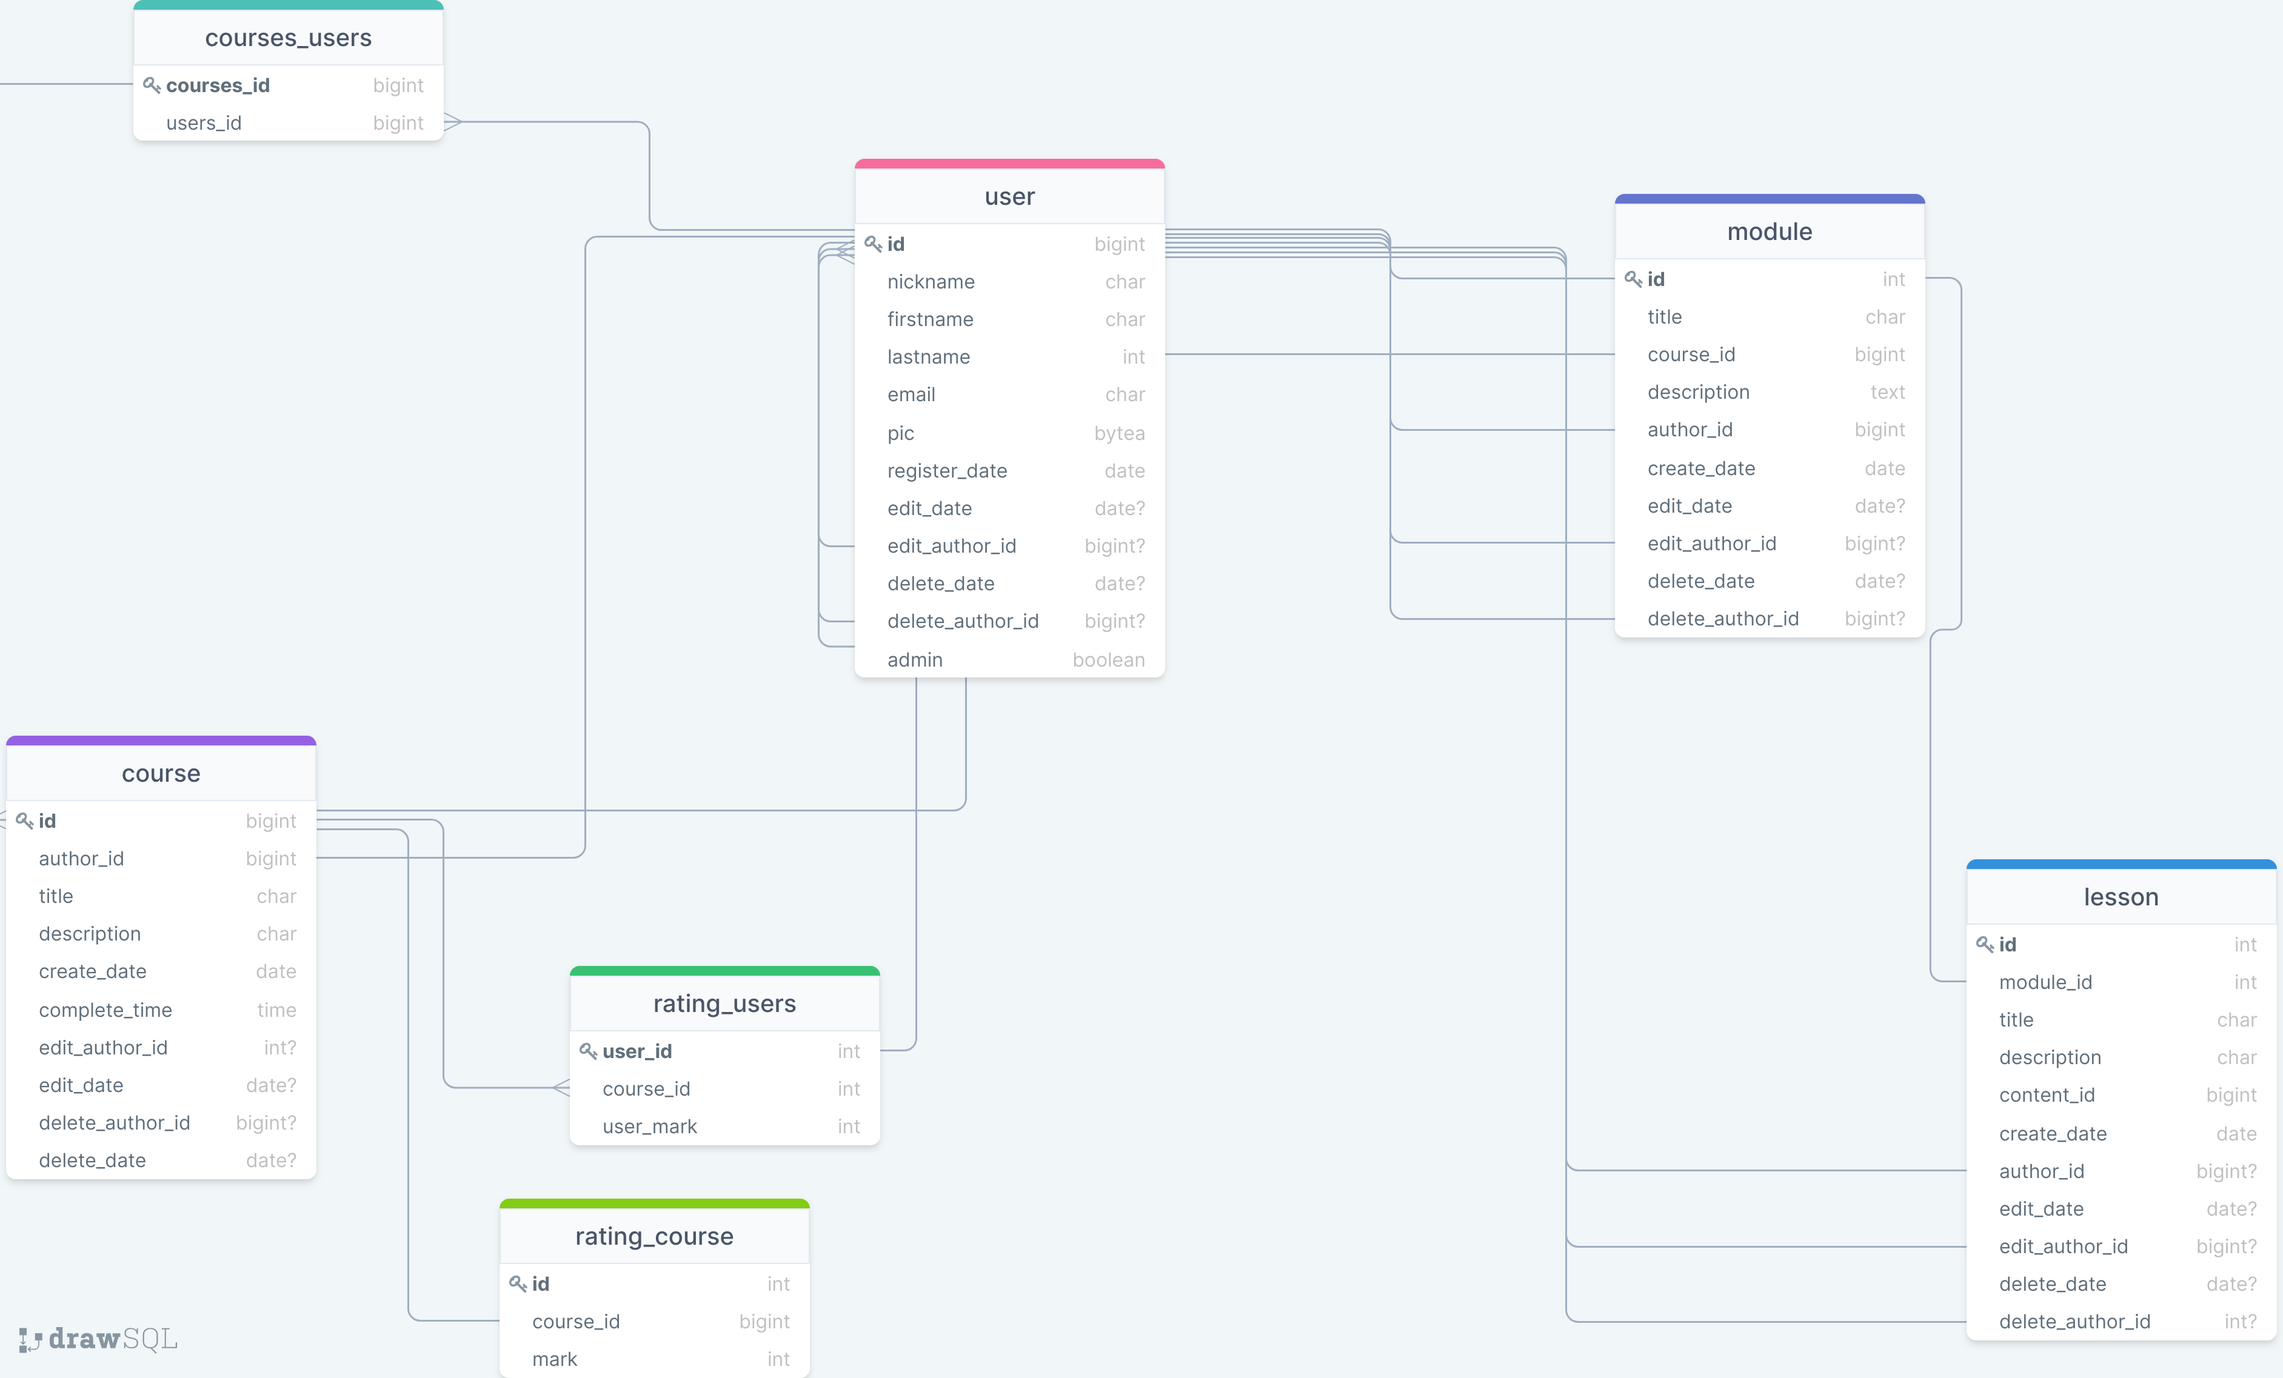
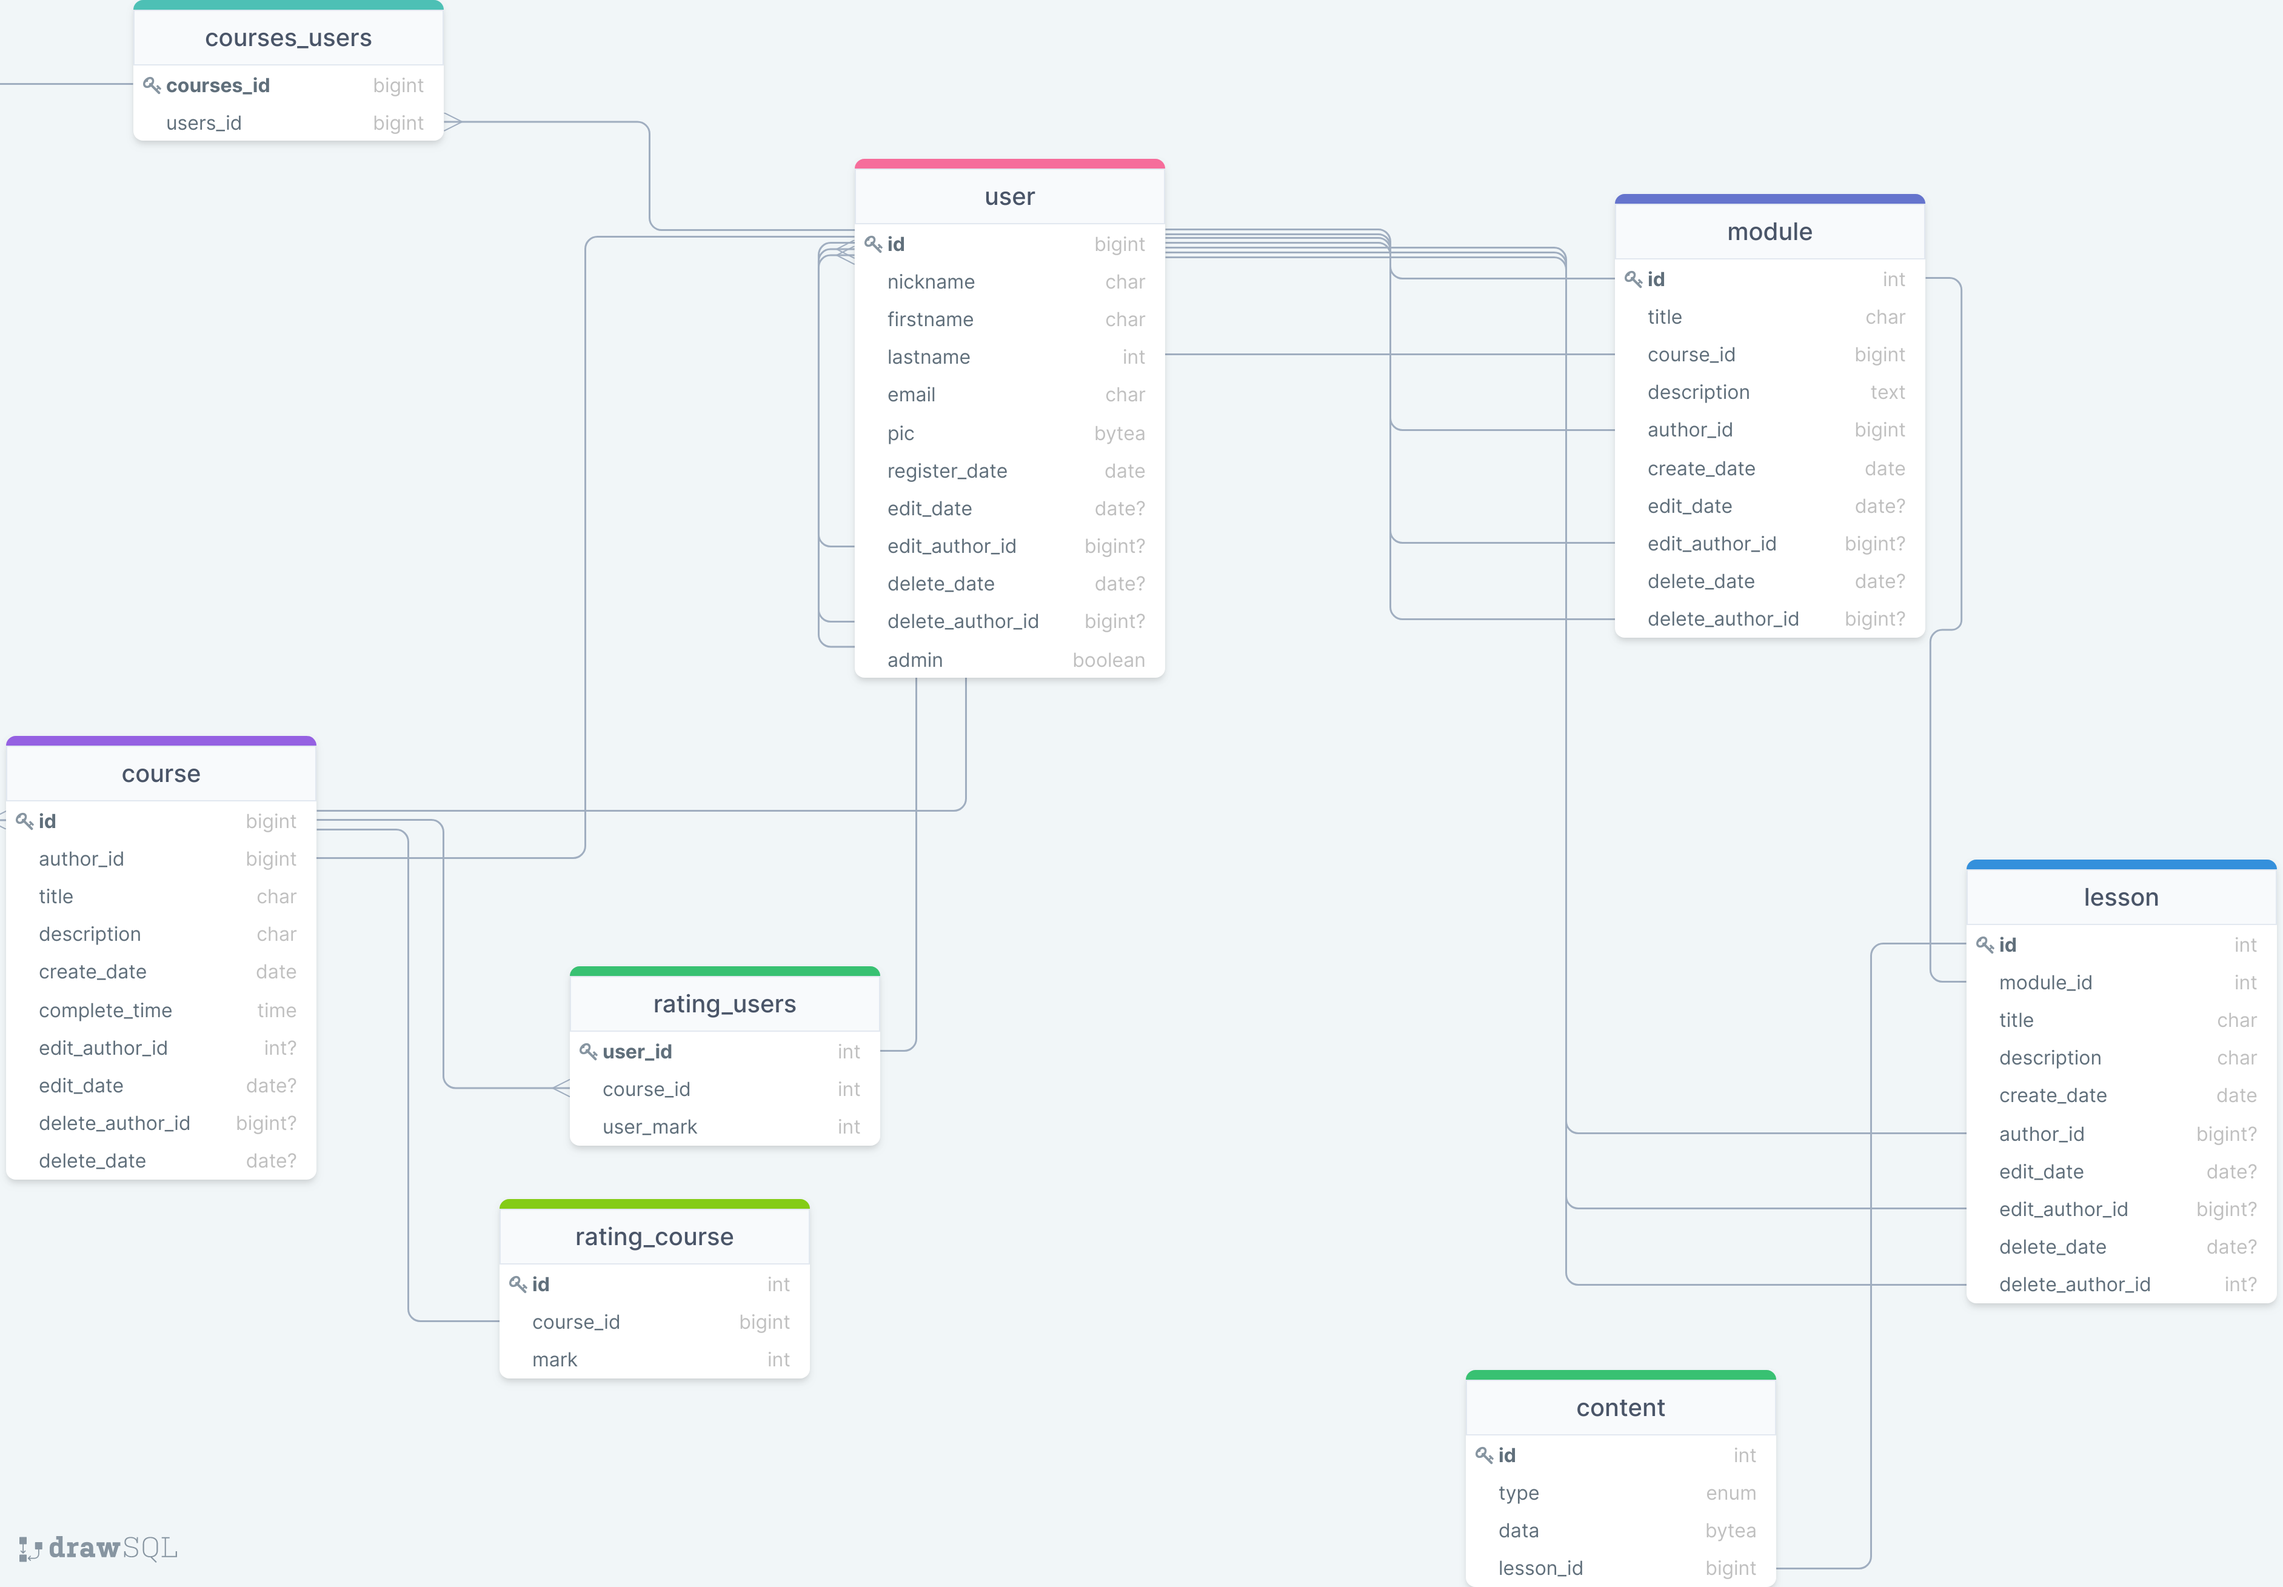
Исправлено представление контента урока

diff --git a/spring/demo/src/main/java/security/SecurityConfiguration.java b/spring/demo/src/main/java/security/SecurityConfiguration.java
@@ -1,0 +1,2 @@
+package security;public class SecurityConfiguration {
+}

diff --git a/spring/demo/src/main/java/com/example/demo/domain/Role.java b/spring/demo/src/main/java/com/example/demo/domain/Role.java
@@ -1,0 +1,2 @@
+package com.example.demo.domain;public class Role {
+}
